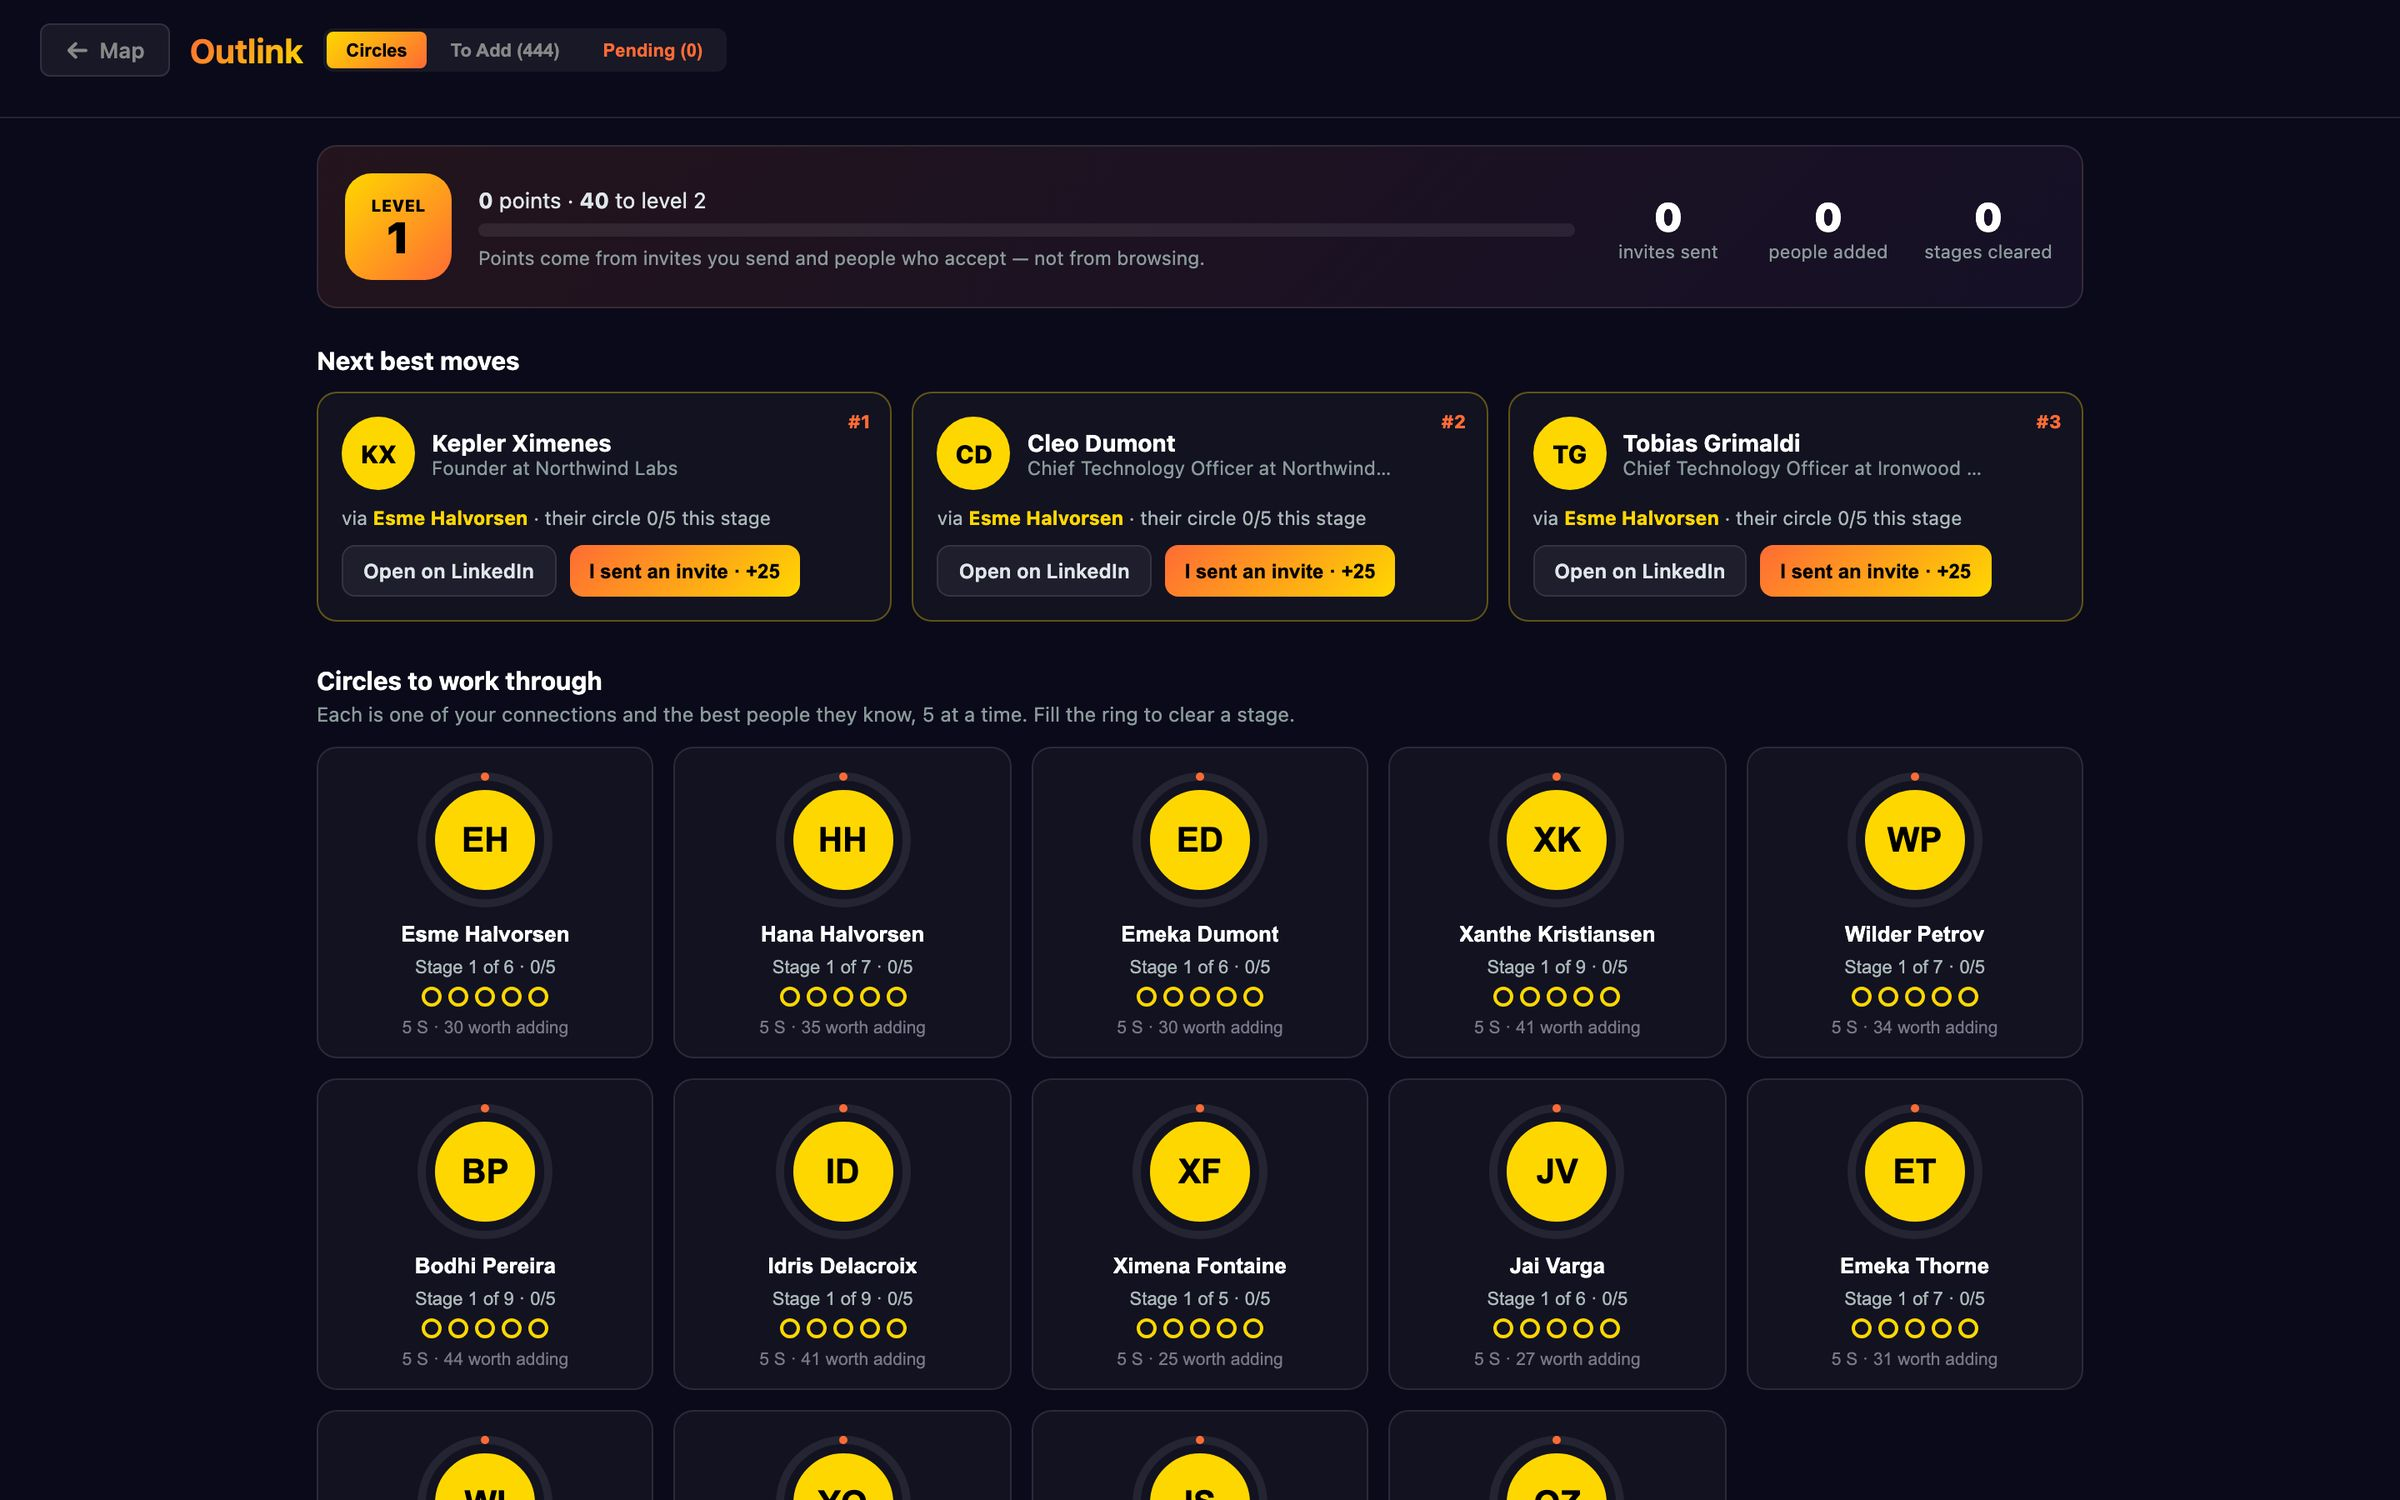
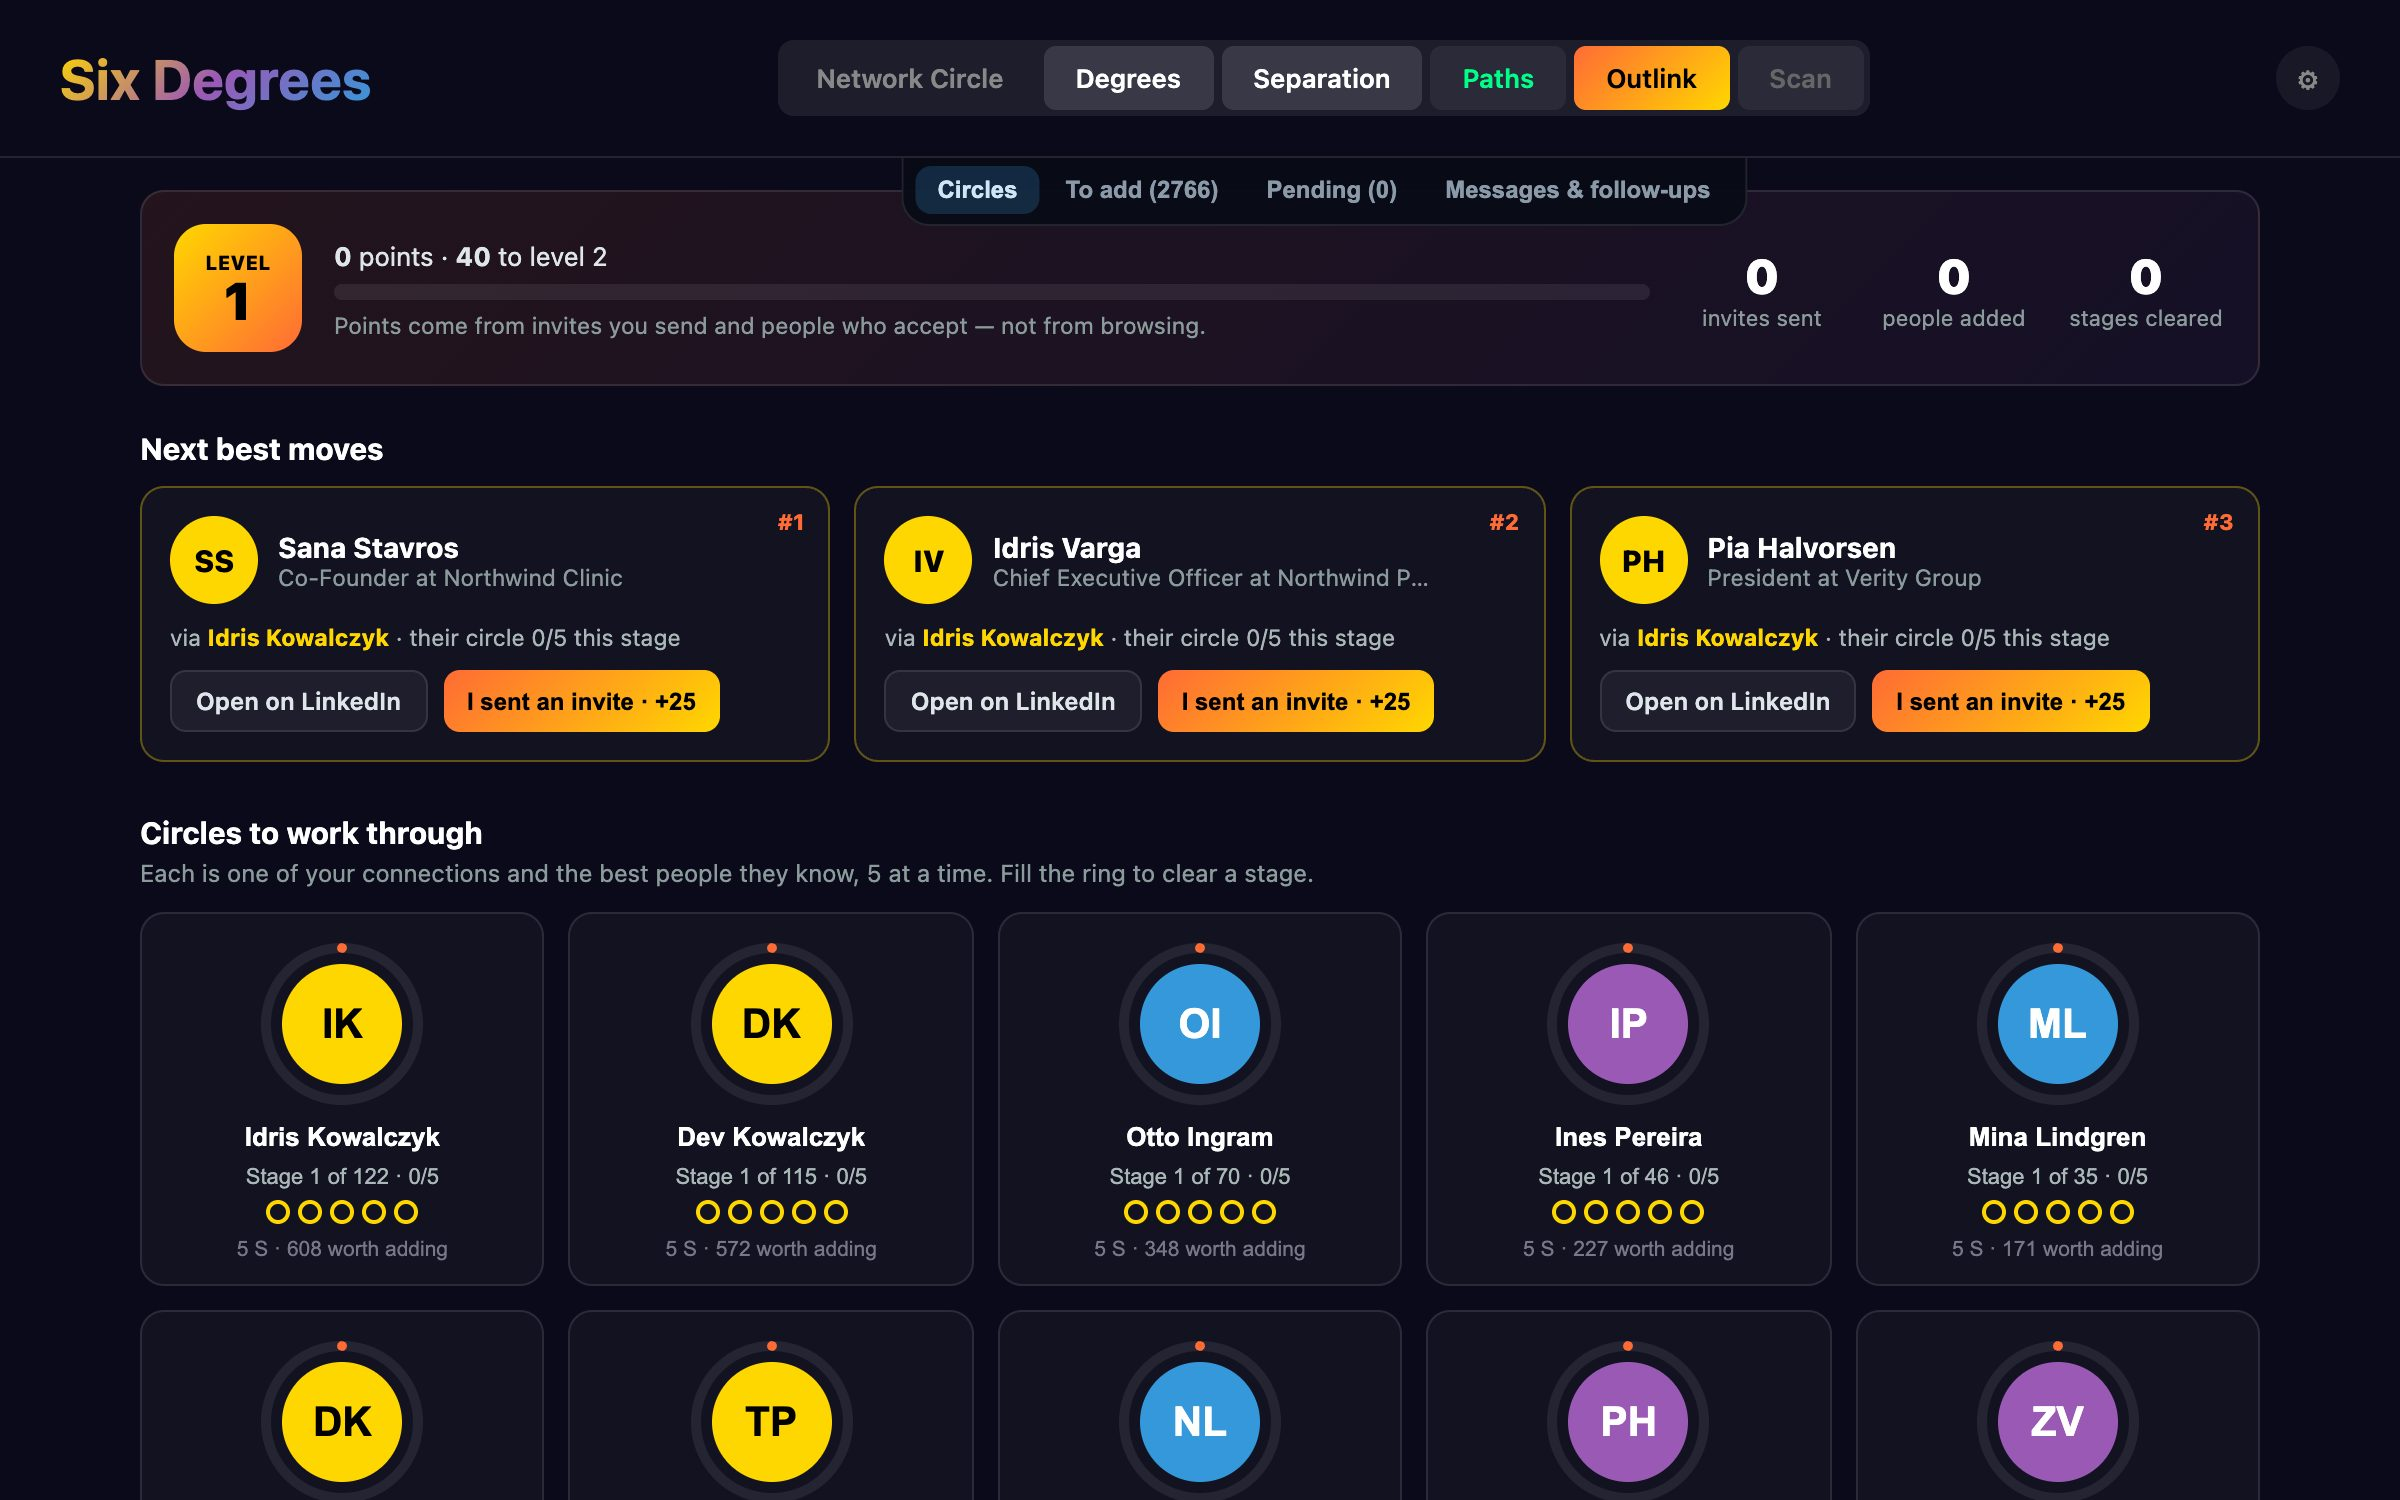
Site: pictures of 0.5.0 (the shared header, Separation, Paths, Outlink, Orbit, the physics panel, the Scan steps)

diff --git a/site/index.html b/site/index.html
@@ -281,7 +281,7 @@
       <p>Network Circle puts your connections on rings around you, the ones who can open the most doors closest in.
         Prefer a pyramid or a ranked list? One click.</p>
       <figure class="shot">
-        <img src="/img/app/network-circle.jpg" srcset="/img/app/network-circle-1200.jpg 1200w, /img/app/network-circle.jpg 2400w" sizes="(max-width: 1120px) calc(100vw - 32px), 1072px" alt="Network Circle: 150 invented connections on tier rings around You" width="2400" height="1500" loading="lazy">
+        <img src="/img/app/network-circle.jpg" srcset="/img/app/network-circle-1200.jpg 1200w, /img/app/network-circle.jpg 2400w" sizes="(max-width: 1120px) calc(100vw - 32px), 1072px" alt="Network Circle: 160 invented connections on tier rings around You, under the header every page shares" width="2400" height="1500" loading="lazy">
       </figure>
     </section>
 
@@ -305,7 +305,7 @@
       <p>Separation lists everyone two steps away, strongest first, with every connection who knows them. So you know
         exactly who to ask.</p>
       <figure class="shot">
-        <img src="/img/app/separation.jpg" srcset="/img/app/separation-1200.jpg 1200w, /img/app/separation.jpg 2400w" sizes="(max-width: 1120px) calc(100vw - 32px), 1072px" alt="Degrees, Separation: 598 invented people two steps away, ranked, each with the connections who can introduce you" width="2400" height="1500" loading="lazy">
+        <img src="/img/app/separation.jpg" srcset="/img/app/separation-1200.jpg 1200w, /img/app/separation.jpg 2400w" sizes="(max-width: 1120px) calc(100vw - 32px), 1072px" alt="Separation: invented people two steps away, ranked, with the slider from the rarest way in to the most mutual connections and the connections who can introduce you" width="2400" height="1500" loading="lazy">
       </figure>
     </section>
 
@@ -315,11 +315,11 @@
         the Galaxy's layouts, fans them out behind the person they came through.</p>
       <div class="shot-pair">
         <figure class="shot">
-          <img src="/img/app/bridge-chains.jpg" srcset="/img/app/bridge-chains-1200.jpg 1200w, /img/app/bridge-chains.jpg 2400w" sizes="(max-width: 860px) calc(100vw - 32px), 530px" alt="Bridge Chains: fourteen connections whose circles are scanned, around You" width="2400" height="1500" loading="lazy">
+          <img src="/img/app/bridge-chains.jpg" srcset="/img/app/bridge-chains-1200.jpg 1200w, /img/app/bridge-chains.jpg 2400w" sizes="(max-width: 860px) calc(100vw - 32px), 530px" alt="Bridge Chains: fourteen invented connections whose circles are scanned, around You" width="2400" height="1500" loading="lazy">
           <figcaption>Bridge Chains</figcaption>
         </figure>
         <figure class="shot">
-          <img src="/img/app/orbit.jpg" srcset="/img/app/orbit-1200.jpg 1200w, /img/app/orbit.jpg 2400w" sizes="(max-width: 860px) calc(100vw - 32px), 530px" alt="Orbit: each scanned circle fanned out behind its connection" width="2400" height="1500" loading="lazy">
+          <img src="/img/app/orbit.jpg" srcset="/img/app/orbit-1200.jpg 1200w, /img/app/orbit.jpg 2400w" sizes="(max-width: 860px) calc(100vw - 32px), 530px" alt="Orbit, a layout of the Galaxy: each tier on its own orbit, with the people in each scanned circle behind their connection" width="2400" height="1500" loading="lazy">
           <figcaption>Orbit</figcaption>
         </figure>
       </div>
@@ -330,7 +330,7 @@
       <p>Open anyone's card to see their circle, how many people only they can reach, who opens the same doors, and
         where their people work.</p>
       <figure class="shot">
-        <img src="/img/app/insights.jpg" srcset="/img/app/insights-1200.jpg 1200w, /img/app/insights.jpg 2400w" sizes="(max-width: 1120px) calc(100vw - 32px), 1072px" alt="A connection's card with Insights open: their circle of 69 people, 51 of them reachable only through them" width="2400" height="1500" loading="lazy">
+        <img src="/img/app/insights.jpg" srcset="/img/app/insights-1200.jpg 1200w, /img/app/insights.jpg 2400w" sizes="(max-width: 1120px) calc(100vw - 32px), 1072px" alt="An invented connection's card: their circle drawn in rings, with its tiers and rarity" width="2400" height="1500" loading="lazy">
       </figure>
     </section>
 
@@ -403,7 +403,7 @@
       <p>Paths groups your companies by industry. Pick one to see who you know there, who you can reach, and the warmest
         way in.</p>
       <figure class="shot">
-        <img src="/img/app/paths.jpg" srcset="/img/app/paths-1200.jpg 1200w, /img/app/paths.jpg 2400w" sizes="(max-width: 1120px) calc(100vw - 32px), 1072px" alt="Paths: invented companies as bubbles grouped by industry, with one company's analyzer open" width="2400" height="1500" loading="lazy">
+        <img src="/img/app/paths.jpg" srcset="/img/app/paths-1200.jpg 1200w, /img/app/paths.jpg 2400w" sizes="(max-width: 1120px) calc(100vw - 32px), 1072px" alt="Paths: invented companies as bubbles grouped by industry, with the tiers × degrees filter beside them" width="2400" height="1500" loading="lazy">
       </figure>
     </section>
 
@@ -429,7 +429,7 @@
       <p>Sliders for gravity, rings, push and pull. Let the rings go and each connection gathers their circle around
         them. Hover anyone to light up their branch.</p>
       <figure class="shot">
-        <img src="/img/app/lab-clusters.jpg" srcset="/img/app/lab-clusters-1200.jpg 1200w, /img/app/lab-clusters.jpg 2400w" sizes="(max-width: 1120px) calc(100vw - 32px), 1072px" alt="The physics lab's sliders beside the Galaxy laid out as clusters, coloured by company" width="2400" height="1500" loading="lazy">
+        <img src="/img/app/lab-clusters.jpg" srcset="/img/app/lab-clusters-1200.jpg 1200w, /img/app/lab-clusters.jpg 2400w" sizes="(max-width: 1120px) calc(100vw - 32px), 1072px" alt="Physics beside the Galaxy, laid out as clusters" width="2400" height="1500" loading="lazy">
       </figure>
     </section>
 
@@ -447,7 +447,7 @@
       <p>Replay your network by the day you made each connection, with your job changes marked along the way. Save it as
         a video, or the Galaxy as a picture.</p>
       <figure class="shot">
-        <img src="/img/app/replay.jpg" srcset="/img/app/replay-1200.jpg 1200w, /img/app/replay.jpg 2400w" sizes="(max-width: 1120px) calc(100vw - 32px), 1072px" alt="The replay part-way through: 30 of 150 connections by July 2018, with its time slider" width="2400" height="1500" loading="lazy">
+        <img src="/img/app/replay.jpg" srcset="/img/app/replay-1200.jpg 1200w, /img/app/replay.jpg 2400w" sizes="(max-width: 1120px) calc(100vw - 32px), 1072px" alt="The replay part-way through: 65 of 160 invented connections by May 2019" width="2400" height="1500" loading="lazy">
         <figcaption>The replay needs the dates you connected, from a scan or LinkedIn's export.</figcaption>
       </figure>
     </section>
@@ -461,16 +461,18 @@
     <section class="moment reveal">
       <div class="moment-text">
         <h3>Slow on purpose.</h3>
-        <p>The optional scanner reads your own LinkedIn in a Chrome window you sign into yourself. It keeps to a daily
-          budget, rests between pages, and stops at the first sign of push-back. A status bar on every page shows what
-          it's doing and what's left, and a paused list carries on where it stopped.</p>
+        <p>The optional scanner reads your own LinkedIn in a Chrome window you sign into yourself, in four steps with one
+          button each. It keeps to a daily budget, rests between pages, and stops at the first sign of push-back. Pick
+          Slow, Medium or Fast: Fast is the pace it has always had, the others only add waiting. The notch under the header
+          shows what it's doing on every page, and a paused list carries on where it stopped.</p>
         <p class="honest">Automating LinkedIn may break its User Agreement, and LinkedIn can restrict accounts that do it.
           The risk is yours. LinkedIn's own export and the sample network carry none.
           <a href="/blog/scanning-slowly/">How scanning works</a>.</p>
       </div>
       <div class="shot-stack">
         <figure class="shot">
-          <img src="/img/app/scan-budget.jpg" srcset="/img/app/scan-budget-1200.jpg 1200w, /img/app/scan-budget.jpg 2280w" sizes="(max-width: 960px) calc(100vw - 32px), 920px" alt="The Scan page's budget: searches in the last 24 hours, this month, and profile views today" width="2280" height="240" loading="lazy">
+          <img src="/img/app/scan-launch.jpg" srcset="/img/app/scan-launch-1200.jpg 1200w, /img/app/scan-launch.jpg 1440w" sizes="(max-width: 960px) calc(100vw - 32px), 720px" alt="The Scan page's fourth step: a radar Scan button, the three speeds (Slow, Medium, Fast) with searches an hour, and how many people this round" width="1440" height="1420" loading="lazy">
+          <figcaption>Step 4: who they know, at the speed you pick</figcaption>
         </figure>
         <figure class="shot">
           <img src="/img/app/scan-paused.jpg" srcset="/img/app/scan-paused-1200.jpg 1200w, /img/app/scan-paused.jpg 2280w" sizes="(max-width: 960px) calc(100vw - 32px), 920px" alt="The Paused list: fourteen invented connections' lists, each carrying on from the page it stopped at" width="2280" height="986" loading="lazy">
